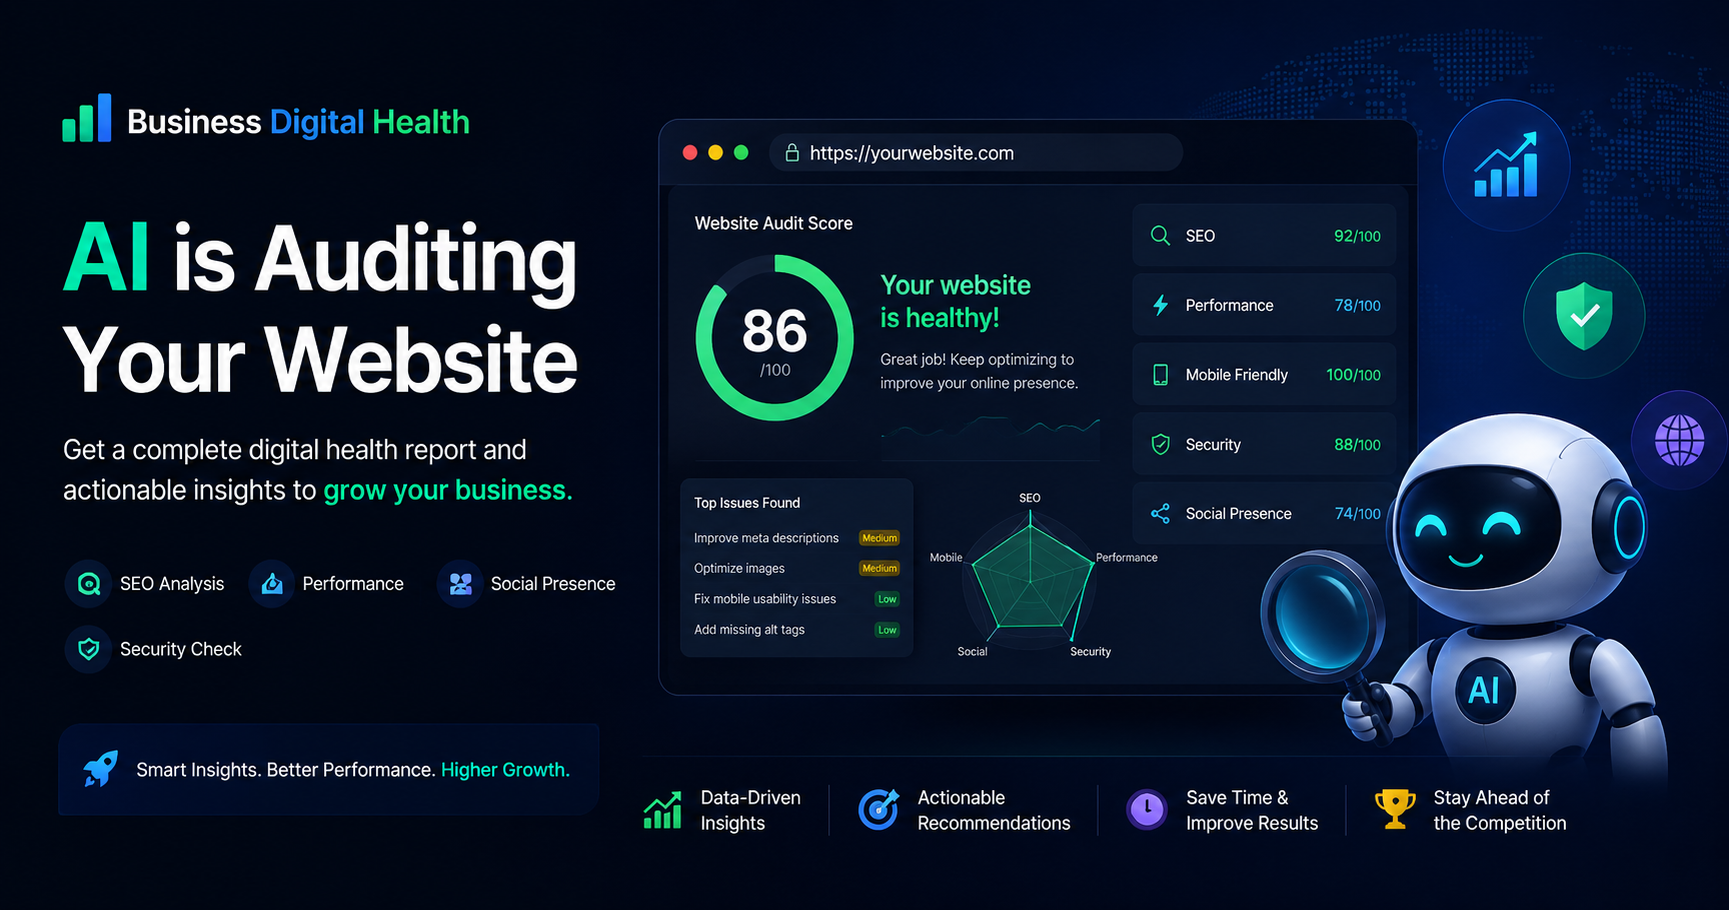
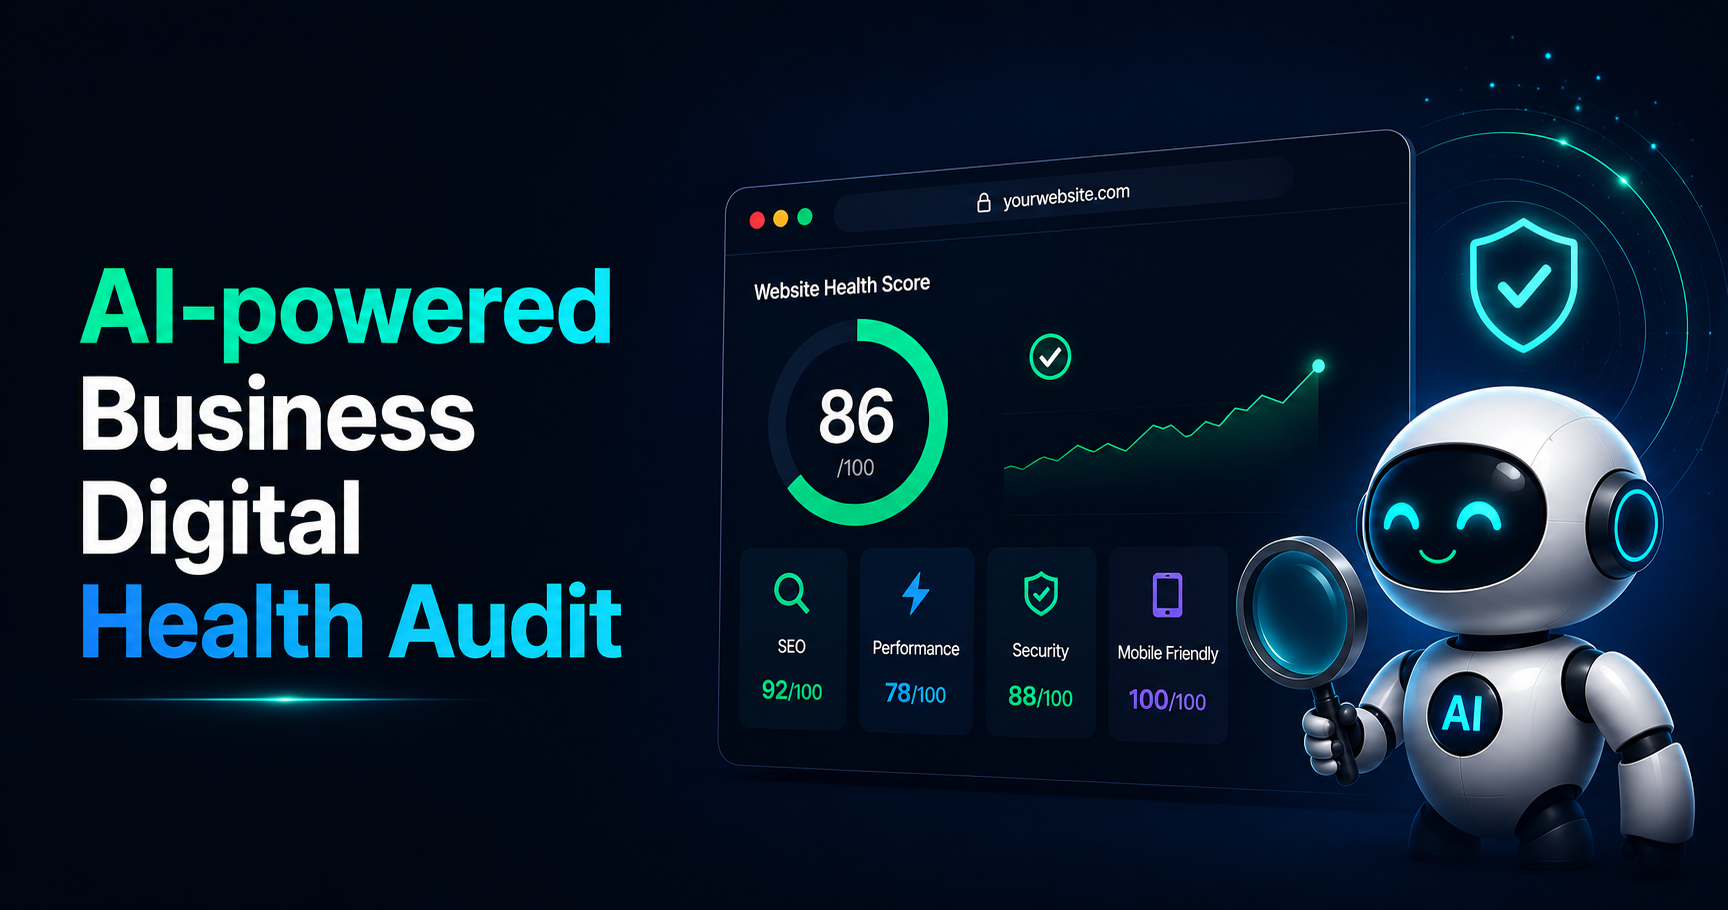
Add: OG meta tags and social preview image#2

diff --git a/aidbro-health-tool/frontend/index.html b/aidbro-health-tool/frontend/index.html
@@ -3,14 +3,14 @@
 <head>
 <meta charset="UTF-8">
 <meta name="viewport" content="width=device-width, initial-scale=1.0">
-<title>AI-Powered Digital Audit | ₹299 Only</title>
-<meta name="description" content="Find out how your business looks online in 60 seconds. AI-powered audit covering website quality, SEO, Google Business Profile, social media & online reputation. Get clear, actionable insights — ₹299 only.">
+<title>AI-Powered Digital Audit | ₹300 Only</title>
+<meta name="description" content="Find out how your business looks online in 60 seconds. AI-powered audit covering website quality, SEO, Google Business Profile, social media & online reputation. Get clear, actionable insights — ₹300 only.">
 
 <!-- Open Graph (WhatsApp, Facebook, LinkedIn) -->
 <meta property="og:type" content="website">
 <meta property="og:url" content="https://ai.aidbro.com/">
 <meta property="og:title" content="AI-Powered Digital Health Audit | Aidbro AI">
-<meta property="og:description" content="Find out how your business looks online in 60 seconds. Website, SEO, Google Business, social media & reputation — all in one AI audit. ₹299 only.">
+<meta property="og:description" content="Find out how your business looks online in 60 seconds. Website, SEO, Google Business, social media & reputation — all in one AI audit. ₹300 only.">
 <meta property="og:image" content="https://ai.aidbro.com/og-preview.png">
 <meta property="og:image:width" content="1200">
 <meta property="og:image:height" content="630">
@@ -19,7 +19,7 @@
 <!-- Twitter / X Card -->
 <meta name="twitter:card" content="summary_large_image">
 <meta name="twitter:title" content="AI-Powered Digital Health Audit | Aidbro AI">
-<meta name="twitter:description" content="Find out how your business looks online in 60 seconds. Website, SEO, Google Business, social media & reputation — all in one AI audit. ₹299 only.">
+<meta name="twitter:description" content="Find out how your business looks online in 60 seconds. Website, SEO, Google Business, social media & reputation — all in one AI audit. ₹300 only.">
 <meta name="twitter:image" content="https://ai.aidbro.com/og-preview.png">
 
 <link rel="icon" type="image/svg+xml" href="/favicon.svg" />
